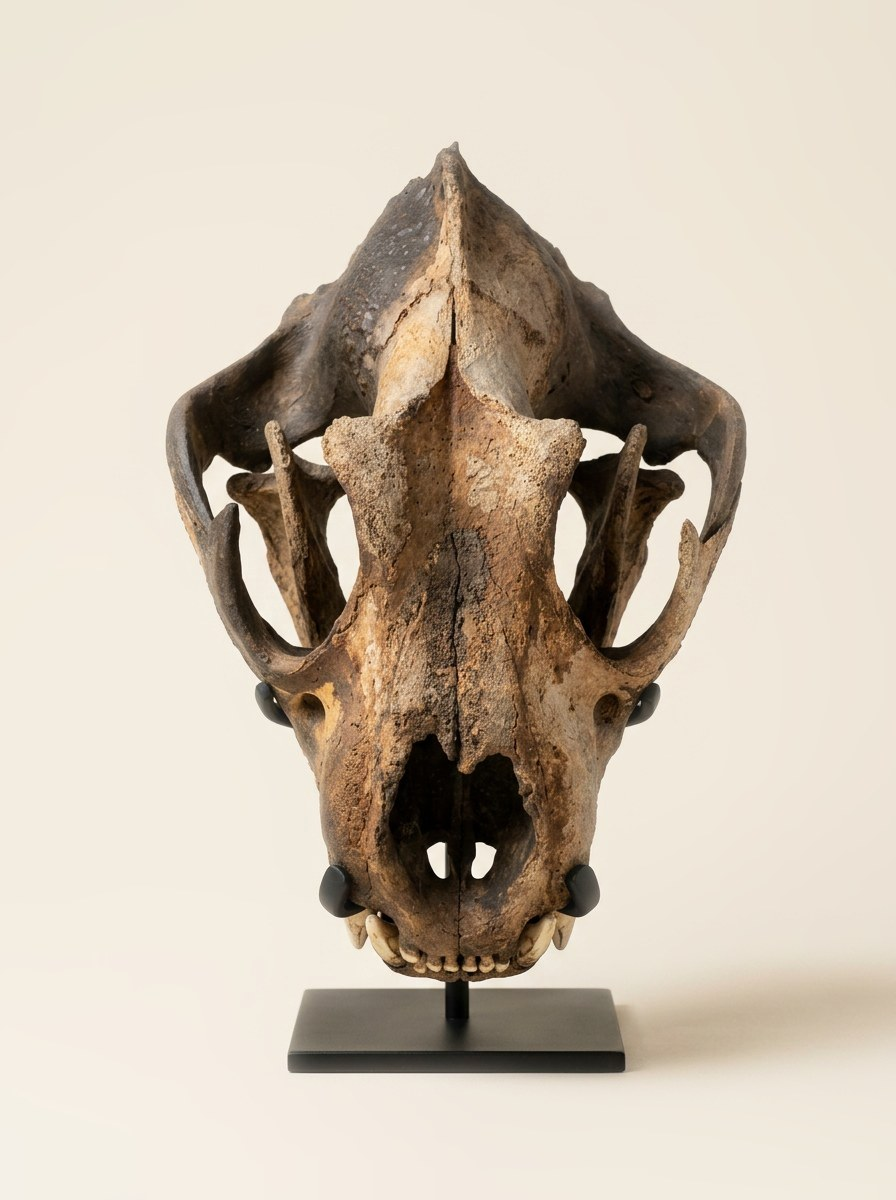
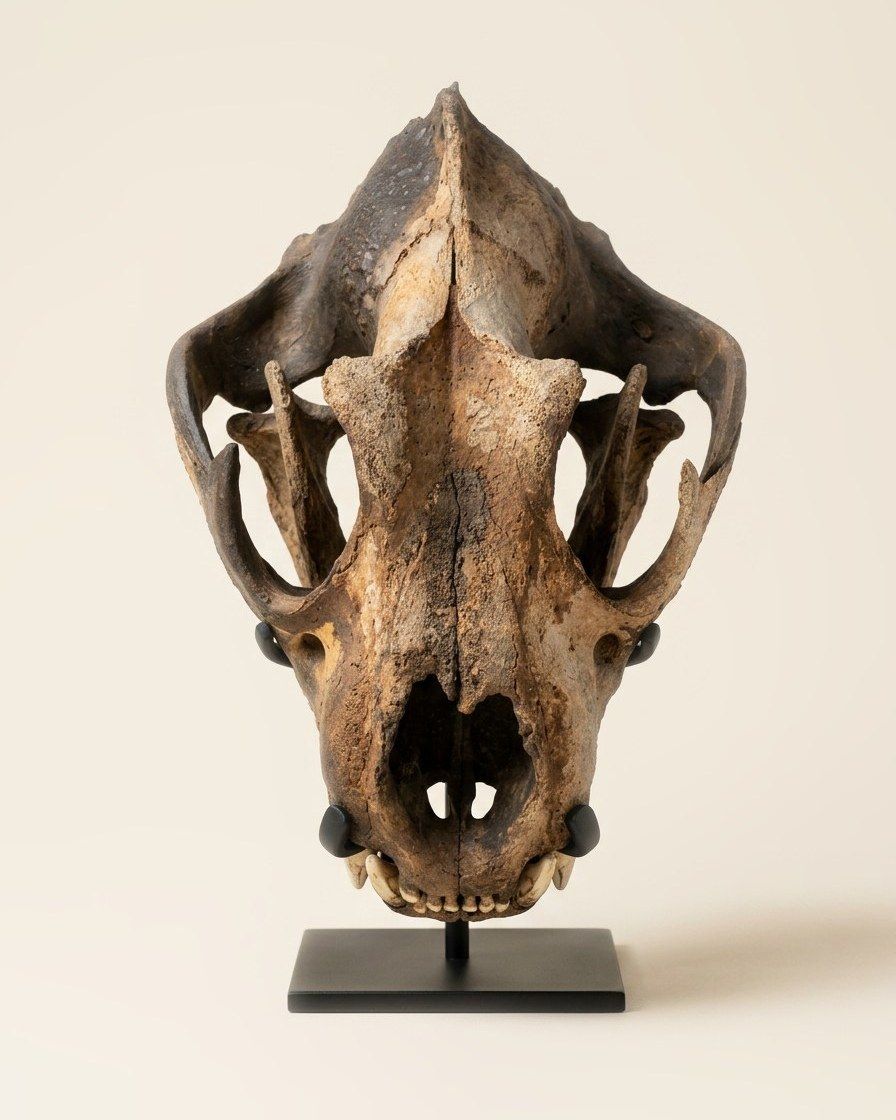
Фильтры каталога — сворачиваемые группы; три карточных фото приведены к точному 4:5
Фильтры: пять групп раскрываются по клику, свёрнутая панель целиком помещается на экран (586 px
против 714 px вьюпорта) — листать до низа страницы больше не нужно. Первая группа открыта,
у остальных на заголовке значок с числом выбранного, длинный список внутри группы прокручивается
сам и не растягивает страницу. Мобильная выезжающая панель работает как прежде.

Фото: контейнер героя жёстко 4:5 с object-fit:contain, поэтому кадр 1208×1500 (0,8053) давал
видимую полосу. Мои сегодняшние снимки зубра, пинакозавра и черепа льва № 2 кадрированы
до точного формата. Проверено по всем 38 карточным фото — отклонений больше нет.

Changed region(s): [[0.1875, 0.0625, 0.8438, 0.8438], [0.3125, 0.8438, 0.8125, 0.9375], [0.4688, 0.6875, 0.5, 0.7188]]

diff --git a/02_site_v1_gallery/catalog.html b/02_site_v1_gallery/catalog.html
@@ -8,7 +8,7 @@
 <style>
 /* ---------- Каталог с фильтрами ---------- */
 .cat-layout { display:grid; grid-template-columns:268px 1fr; gap:clamp(26px,3.5vw,56px); align-items:start; padding-bottom:30px; }
-.filters-rail { position:sticky; top:104px; border:1px solid var(--hairline); background:var(--bone); }
+.filters-rail { position:sticky; top:104px; border:1px solid var(--hairline); background:var(--bone); max-height:calc(100vh - 128px); overflow-y:auto; }
 .rail-head { display:flex; justify-content:space-between; align-items:center; padding:17px 20px; border-bottom:1px solid var(--hairline); }
 .rail-head .t { font-size:11px; letter-spacing:.22em; text-transform:uppercase; color:var(--bronze-deep); }
 .rail-head button { background:none; border:none; font-family:var(--font-ui); font-size:11px; letter-spacing:.1em; text-transform:uppercase; color:var(--stone); cursor:pointer; padding:0; }
@@ -16,9 +16,18 @@
 .rail-close { display:none; }
 .fsearch { padding:15px 20px; border-bottom:1px solid var(--hairline); }
 .fsearch input { width:100%; border:1px solid var(--hairline); background:transparent; padding:11px 12px; font-family:var(--font-ui); font-size:13px; color:var(--obsidian); }
-.fgroup { padding:15px 20px; border-bottom:1px solid var(--hairline); }
+.fgroup { border-bottom:1px solid var(--hairline); }
 .fgroup:last-child { border-bottom:none; }
-.fgroup-h { font-size:11px; letter-spacing:.18em; text-transform:uppercase; color:var(--stone); margin-bottom:11px; }
+.fgroup-h { width:100%; display:flex; align-items:center; gap:9px; padding:14px 20px; background:none; border:none;
+  font-family:var(--font-ui); font-size:11px; letter-spacing:.18em; text-transform:uppercase; color:var(--stone);
+  cursor:pointer; text-align:left; }
+.fgroup-h:hover { color:var(--obsidian); }
+.fgroup.open > .fgroup-h { color:var(--obsidian); }
+.fgroup-h .badge { background:var(--obsidian); color:var(--ivory); border-radius:9px; padding:1px 7px; font-size:10px; letter-spacing:.04em; }
+.fgroup-h .chev { margin-left:auto; font-size:9px; color:var(--bronze-deep); transition:transform .3s var(--ease); }
+.fgroup.open .chev { transform:rotate(180deg); }
+.fgroup-body { display:none; padding:0 20px 14px; max-height:min(44vh,320px); overflow-y:auto; }
+.fgroup.open .fgroup-body { display:block; }
 .fopt { display:flex; align-items:center; gap:10px; padding:6px 0; font-size:13.5px; cursor:pointer; color:#3d3a35; user-select:none; }
 .fopt:hover { color:var(--obsidian); }
 .fopt input { appearance:none; -webkit-appearance:none; width:15px; height:15px; border:1px solid var(--bronze-deep); background:transparent; cursor:pointer; flex:none; position:relative; border-radius:1px; margin:0; }
@@ -227,25 +236,31 @@ function optionValues(key) {
 }
 function countFor(key, val) { return CATALOG.filter(o => o[key] === val).length; }
 
-FACETS.forEach(f => {
-  const g = document.createElement("div"); g.className = "fgroup";
-  let html = `<div class="fgroup-h">${f.label}</div>`;
+FACETS.forEach((f, i) => {
+  const g = document.createElement("div"); g.className = "fgroup" + (i === 0 ? " open" : "");
+  let opts = "";
   optionValues(f.key).forEach(v => {
     const lbl = f.labels ? (f.labels[v] || v) : v;
-    html += `<label class="fopt"><input type="checkbox" data-k="${f.key}" value="${v}"><span>${lbl}</span><span class="fc">${countFor(f.key,v)}</span></label>`;
+    opts += `<label class="fopt"><input type="checkbox" data-k="${f.key}" value="${v}"><span>${lbl}</span><span class="fc">${countFor(f.key,v)}</span></label>`;
   });
-  g.innerHTML = html; facetsEl.appendChild(g);
+  g.innerHTML = `<button type="button" class="fgroup-h" aria-expanded="${i===0}">${f.label}`
+    + `<span class="badge" data-badge="${f.key}" hidden>0</span><span class="chev">▾</span></button>`
+    + `<div class="fgroup-body">${opts}</div>`;
+  facetsEl.appendChild(g);
 });
 // price group
 (function(){
   const g = document.createElement("div"); g.className = "fgroup";
-  let html = `<div class="fgroup-h">Цена</div>`;
+  let opts = "";
   PRICE_BRACKETS.forEach(b => {
     const n = CATALOG.filter(o => b.test(o.priceValue)).length;
-    html += `<label class="fopt"><input type="checkbox" data-k="price" value="${b.id}"><span>${b.label}</span><span class="fc">${n}</span></label>`;
+    opts += `<label class="fopt"><input type="checkbox" data-k="price" value="${b.id}"><span>${b.label}</span><span class="fc">${n}</span></label>`;
   });
-  html += `<div class="price-inputs"><input type="number" id="pmin" placeholder="от, ₽"><span>—</span><input type="number" id="pmax" placeholder="до, ₽"></div>`;
-  g.innerHTML = html; facetsEl.appendChild(g);
+  opts += `<div class="price-inputs"><input type="number" id="pmin" placeholder="от, ₽"><span>—</span><input type="number" id="pmax" placeholder="до, ₽"></div>`;
+  g.innerHTML = `<button type="button" class="fgroup-h" aria-expanded="false">Цена`
+    + `<span class="badge" data-badge="price" hidden>0</span><span class="chev">▾</span></button>`
+    + `<div class="fgroup-body">${opts}</div>`;
+  facetsEl.appendChild(g);
 })();
 
 // ---- Фильтрация ----
@@ -293,6 +308,16 @@ function renderChips() {
   }));
 }
 
+// счётчик выбранного на заголовке свёрнутой группы
+function syncBadges() {
+  facetsEl.querySelectorAll("[data-badge]").forEach(b => {
+    const k = b.dataset.badge;
+    let n = state[k] ? state[k].size : 0;
+    if (k === "price") n += (state.priceMin!=null?1:0) + (state.priceMax!=null?1:0);
+    b.hidden = !n; b.textContent = n;
+  });
+}
+
 function render() {
   let items = CATALOG.filter(matches);
   if (sortEl.value==="asc") items=[...items].sort((a,b)=>(a.priceValue??Infinity)-(b.priceValue??Infinity));
@@ -315,6 +340,7 @@ function render() {
   countEl.textContent = "Объектов: " + items.length + (activeCount() ? " из " + CATALOG.length : "");
   $("#toggleCount").textContent = activeCount();
   renderChips();
+  syncBadges();
 }
 
 function resetAll() {
@@ -326,6 +352,12 @@ function resetAll() {
 }
 
 // ---- События ----
+facetsEl.addEventListener("click", e => {
+  const h = e.target.closest(".fgroup-h");
+  if (!h) return;
+  const g = h.parentElement, open = g.classList.toggle("open");
+  h.setAttribute("aria-expanded", open);
+});
 facetsEl.addEventListener("change", e => {
   const cb = e.target;
   if (cb.dataset && cb.dataset.k === "price" && cb.type==="checkbox") { cb.checked?state.price.add(cb.value):state.price.delete(cb.value); render(); return; }
